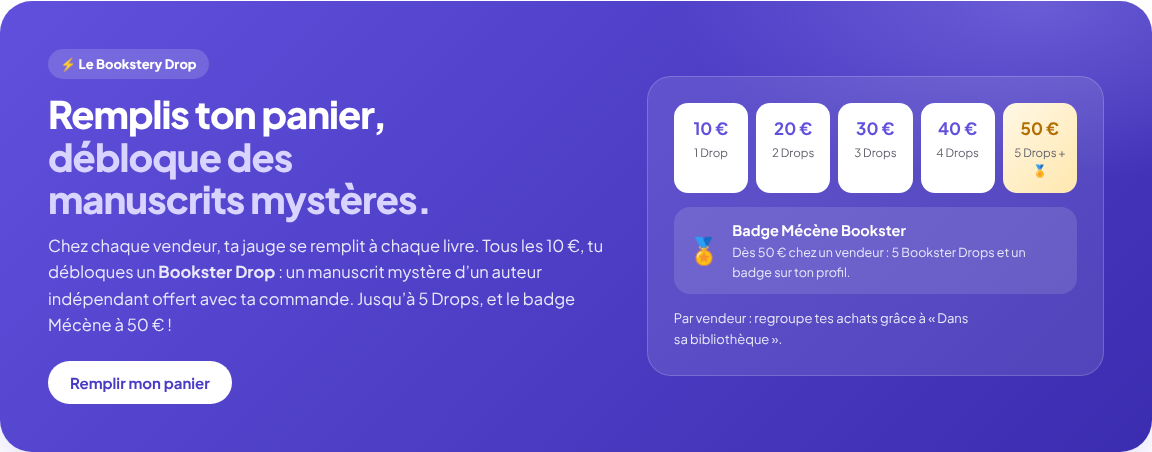
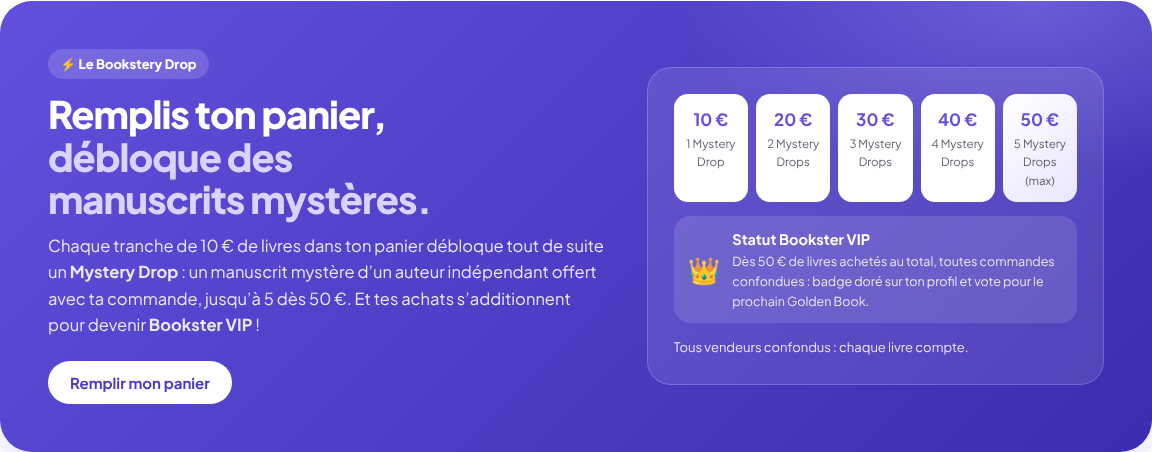
Jauge : Mystery Drops de 10 à 50 € (1 à 5), maximum 5 par commande
Claude-Session: https://claude.ai/code/session_01EPa3evC84KLMU14gb8iTX3

diff --git a/index.html b/index.html
@@ -974,8 +974,8 @@ footer .legal{grid-column:1/-1;border-top:1px solid var(--line);padding-top:18px
 .dv-steps li.mec{background:linear-gradient(135deg,#FFF8E6,#FFE7AE)}.dv-steps li.mec b{color:#B26E00}
 .dv-badge{display:flex;gap:12px;align-items:center;margin-top:14px;background:rgba(255,255,255,.12);border-radius:16px;padding:12px 14px}
 .dv-badge>span{font-size:26px}.dv-badge b{display:block;font-size:14.5px}.dv-badge small{display:block;font-size:12.5px;opacity:.85}
-@media(max-width:560px){.dv-steps{grid-template-columns:repeat(3,1fr)}.dv-steps li.mec{grid-column:span 2}.dg-m small em{display:none}.dg-m{width:44px}.dg-ms{height:34px}}
-/* ---------- Bookster Drops (commande) et statut Bookster VIP (fidélité) ---------- */
+@media(max-width:560px){.dv-steps{grid-template-columns:repeat(3,1fr)}.dv-steps li.mec{grid-column:span 2}.dg-m small em{font-size:9.5px}.dg-m{width:52px}}
+/* ---------- Mystery Drops (commande) et statut Bookster VIP (fidélité) ---------- */
 .drop-box{border:1.5px solid var(--maj-l);background:linear-gradient(180deg,#fff,var(--maj-xl));border-radius:18px;padding:14px 14px 12px;display:flex;flex-direction:column;gap:10px}
 .vip-box{border-radius:18px;padding:14px 16px;background:#fff;border:1.5px solid var(--maj);box-shadow:0 10px 24px -14px rgba(96,80,220,.45)}
 .vip-t{margin:0 0 4px!important;font-size:14px;font-weight:800;color:var(--ink)}.vip-t b{color:var(--maj-d)}
@@ -996,6 +996,9 @@ footer .legal{grid-column:1/-1;border-top:1px solid var(--line);padding-top:18px
 .vip-pill{display:inline-block;vertical-align:middle;font-size:12px;font-weight:800;letter-spacing:.01em;color:#7A4E00;background:linear-gradient(135deg,#FFE7AE,#F5C451);border-radius:999px;padding:4px 10px;margin-left:6px}
 #aVip{margin:4px 0 16px}
 #cmdVip{margin:14px 0 0}
+.dg-m small em{white-space:normal;line-height:1.15}
+.drop-max{background:#E8F6EE;color:#1C5C3B;border-radius:14px;padding:10px 14px;font-size:13.5px;font-weight:700}
+.dv-steps li.max{background:linear-gradient(135deg,#fff,#E9E5FF)}
 @media(prefers-reduced-motion:reduce){*{transition-duration:.01ms!important;animation:none!important;scroll-behavior:auto!important}}
 </style>
 </head>
@@ -1110,16 +1113,16 @@ footer .legal{grid-column:1/-1;border-top:1px solid var(--line);padding-top:18px
         <div class="drop-txt">
           <span class="drop-k">⚡ Le Bookstery Drop</span>
           <h2 id="dropT">Remplis ton panier, <span>débloque des manuscrits mystères.</span></h2>
-          <p>Chaque tranche de 10&nbsp;€ de livres dans ton panier débloque tout de suite un <b>Bookster Drop</b>&nbsp;: un manuscrit mystère d’un auteur indépendant offert avec ta commande. Et tes achats s’additionnent pour devenir <b>Bookster VIP</b>&nbsp;!</p>
+          <p>Chaque tranche de 10&nbsp;€ de livres dans ton panier débloque tout de suite un <b>Mystery Drop</b>&nbsp;: un manuscrit mystère d’un auteur indépendant offert avec ta commande, jusqu’à 5 dès 50&nbsp;€. Et tes achats s’additionnent pour devenir <b>Bookster VIP</b>&nbsp;!</p>
           <a class="btn" href="#catalogue">Remplir mon panier</a>
         </div>
         <div class="drop-viz" aria-hidden="true">
           <ol class="dv-steps">
-            <li><b>10&nbsp;€</b><span>1 Drop</span></li>
-            <li><b>20&nbsp;€</b><span>2 Drops</span></li>
-            <li><b>30&nbsp;€</b><span>3 Drops</span></li>
-            <li><b>40&nbsp;€</b><span>4 Drops</span></li>
-            <li><b>…</b><span>et ainsi de suite</span></li>
+            <li><b>10&nbsp;€</b><span>1 Mystery Drop</span></li>
+            <li><b>20&nbsp;€</b><span>2 Mystery Drops</span></li>
+            <li><b>30&nbsp;€</b><span>3 Mystery Drops</span></li>
+            <li><b>40&nbsp;€</b><span>4 Mystery Drops</span></li>
+            <li class="max"><b>50&nbsp;€</b><span>5 Mystery Drops (max)</span></li>
           </ol>
           <div class="dv-badge"><span>👑</span><div><b>Statut Bookster VIP</b><small>Dès 50&nbsp;€ de livres achetés au total, toutes commandes confondues&nbsp;: badge doré sur ton profil et vote pour le prochain Golden Book.</small></div></div>
           <p class="dv-note">Tous vendeurs confondus&nbsp;: chaque livre compte.</p>
@@ -1193,7 +1196,7 @@ footer .legal{grid-column:1/-1;border-top:1px solid var(--line);padding-top:18px
             <h3>Ton texte part dans le Bookstery Drop</h3>
             <p>À chaque commande, des manuscrits mystères se glissent dans les Bookster Bags. Le tien en fait partie&nbsp;!</p>
             <ul class="fp-list">
-              <li><b>La jauge du Drop</b><span>Chaque tranche de 10&nbsp;€ de livres dans le panier débloque un Bookster Drop&nbsp;: un manuscrit mystère offert.</span></li>
+              <li><b>La jauge du Drop</b><span>Chaque tranche de 10&nbsp;€ de livres dans le panier débloque un Mystery Drop&nbsp;: un manuscrit mystère offert, jusqu’à 5 dès 50&nbsp;€.</span></li>
               <li><b>Le bon lecteur</b><span>Ton texte va à ceux qui aiment déjà ton genre.</span></li>
               <li><b>Un QR code dans le colis</b><span>Il ouvre ton texte dans la liseuse protégée.</span></li>
             </ul>
@@ -1206,8 +1209,8 @@ footer .legal{grid-column:1/-1;border-top:1px solid var(--line);padding-top:18px
                 <div class="mk-item"><i style="background:#2b4c7e"></i>Les Rivières pourpres<em>3,00&nbsp;€</em></div>
                 <div class="mk-item"><i style="background:#1e1e2a"></i>Le Comte de Monte-Cristo<em>4,90&nbsp;€</em></div>
                 <div class="mk-drop-h"><b>⚡ Jauge du Bookstery Drop</b><span>11,40&nbsp;€</span></div>
-                <div class="mk-gauge"><span style="width:38%"></span><i style="left:33.3%">10&nbsp;€</i><i style="left:66.6%">20&nbsp;€</i><i style="left:100%">30&nbsp;€</i></div>
-                <small class="mk-small">1er Bookster Drop débloqué 🎉 · Plus que 8,60&nbsp;€ pour le 2e</small>
+                <div class="mk-gauge"><span style="width:23%"></span><i style="left:20%">10&nbsp;€</i><i style="left:40%">20&nbsp;€</i><i style="left:60%">30&nbsp;€</i><i style="left:80%">40&nbsp;€</i><i style="left:100%">50&nbsp;€</i></div>
+                <small class="mk-small">1er Mystery Drop débloqué 🎉 · Plus que 8,60&nbsp;€ pour le 2e</small>
                 <div class="mk-gift"><span class="mk-gift-i">🎁</span><div><b>Manuscrit mystère · Romans</b><span>«&nbsp;La dernière marée&nbsp;»… c’est ton texte&nbsp;!</span></div></div>
               </div>
             </div>
@@ -2032,13 +2035,13 @@ $("sellForm").addEventListener("submit",async function(e){
 if(sb)sb.auth.onAuthStateChange(function(ev){if(ev==="SIGNED_IN"&&sellReturn){sellReturn=false;setTimeout(function(){closeAll(true);openSell()},300)}});
 
 /* ================= Catalogue & Bookster Bag ================= */
-var DROP_STEP=10;                     /* commande en cours : chaque tranche de 10 € de livres dans le panier = 1 Bookster Drop (manuscrit mystère offert) */
+var DROP_STEP=10,DROP_MAX=5;                     /* commande en cours : chaque tranche de 10 € de livres dans le panier = 1 Mystery Drop (manuscrit mystère offert) */
 var VIP_SEUIL=50;                     /* fidélité : 50 € de livres achetés au total = statut Bookster VIP (jury du Golden Book) */
 var FEE_RATE=0.05,FEE_FIXED=0.70;     /* Protection Acheteur : 5 % + 0,70 € sur le montant des livres */
 var ETAT_TXT={comme_neuf:"Comme neuf",tres_bon:"Très bon état",bon:"Bon état"};
 function r2(x){return Math.round((x+Number.EPSILON)*100)/100}
 function esc(t){return String(t==null?"":t).replace(/[&<>"']/g,function(c){return{"&":"&amp;","<":"&lt;",">":"&gt;",'"':"&quot;","'":"&#39;"}[c]})}
-function booksterbooks(sub){return Math.floor((sub+1e-9)/DROP_STEP)}
+function booksterbooks(sub){return Math.min(DROP_MAX,Math.floor((sub+1e-9)/DROP_STEP))}
 function protection(books){return books>0?r2(books*FEE_RATE+FEE_FIXED):0}
 function ordinal(n){return n===1?"1er":n+"e"}
 var COVERS=["#3E3A8F","#7A2E3B","#1F5C4A","#8A5A1E","#2D4E7A","#5B3A7A","#1E1E2A","#9A3F2A"];
@@ -2206,9 +2209,9 @@ function groups(){
   return order.map(function(v){return by[v]});
 }
 function totals(){
-  var gs=groups(),books=0;gs.forEach(function(g){books=r2(books+g.sub)});var gifts=booksterbooks(books),next=(gifts+1)*DROP_STEP;
+  var gs=groups(),books=0;gs.forEach(function(g){books=r2(books+g.sub)});var gifts=booksterbooks(books),next=gifts<DROP_MAX?(gifts+1)*DROP_STEP:null;
   var fee=protection(books),genres=bag.map(function(b){return b.genre}).filter(function(v,i,a){return v&&a.indexOf(v)===i});
-  return{groups:gs,books:books,fee:fee,total:r2(books+fee),gifts:gifts,next:next,missing:r2(next-books),genres:genres};
+  return{groups:gs,books:books,fee:fee,total:r2(books+fee),gifts:gifts,next:next,missing:next?r2(next-books):0,genres:genres};
 }
 
 function addToBag(id){
@@ -2217,8 +2220,8 @@ function addToBag(id){
   bag.push({id:b.id,titre:b.titre,auteur:b.auteur||"",genre:b.genre||"",etat:b.etat||"",prix:Number(b.prix),vendeur_id:b.vendeur_id,couverture_url:b.couverture_url||""});
   saveBag();renderAll();
   var t=totals(),before=booksterbooks(r2(t.books-Number(b.prix)));
-  if(t.gifts>before)toast("🎉 "+ordinal(t.gifts)+" Bookster Drop débloqué ! Plus que "+EUR.format(t.missing)+" pour le suivant.");
-  else toast("Ajouté ! Plus que "+EUR.format(t.missing)+" dans ton panier pour ton "+ordinal(t.gifts+1)+" Bookster Drop.");
+  if(t.gifts>before)toast("🎉 "+ordinal(t.gifts)+" Mystery Drop débloqué !"+(t.next?" Plus que "+EUR.format(t.missing)+" pour le suivant.":" C’est le maximum : 5 Mystery Drops."));
+  else toast(t.next?"Ajouté ! Plus que "+EUR.format(t.missing)+" dans ton panier pour ton "+ordinal(t.gifts+1)+" Mystery Drop.":"Ajouté ! Tu as déjà le maximum : 5 Mystery Drops.");
 }
 function removeFromBag(id){bag=bag.filter(function(b){return String(b.id)!==String(id)});saveBag();renderAll()}
 document.addEventListener("click",function(e){
@@ -2275,7 +2278,7 @@ function suggestions(missing){
   return BOOKS.filter(function(b){return!inBag[b.id]&&!(current&&b.vendeur_id===current.id)})
     .sort(function(a,b){var sa=sellers[a.vendeur_id]?0:1,sb2=sellers[b.vendeur_id]?0:1;if(sa!==sb2)return sa-sb2;var ma=a.prix>=missing,mb=b.prix>=missing;return ma!==mb?(ma?-1:1):(ma?a.prix-b.prix:b.prix-a.prix)}).slice(0,3);
 }
-function drops(n){return n+" Bookster Drop"+(n>1?"s":"")}
+function drops(n){return n+" Mystery Drop"+(n>1?"s":"")}
 var GAUGE_PREV={};
 /* Jauge générique : valeur en €, échelle 0 → end, jalons [{v,label,em,mark}] */
 function gaugeHtml(key,value,end,marks,aria,cls){
@@ -2296,16 +2299,16 @@ function groupHtml(g){
   return'<section class="sg" aria-label="Livres de '+esc(s.nom)+'"><div class="sg-h"><div><b>'+esc(s.nom)+'</b>'+(s.ville?' <span>· '+esc(s.ville)+'</span>':"")+'</div><span class="sub">'+EUR.format(g.sub)+'</span></div>'+
     '<ul class="items">'+g.items.map(function(b){return'<li class="item">'+coverHtml(b,true)+'<div class="item-t"><b>'+esc(b.titre)+'</b><span>'+esc(ETAT_TXT[b.etat]||b.genre||"")+'</span></div><span class="p">'+EUR.format(b.prix)+'</span><button class="icon rm" type="button" data-rm="'+esc(b.id)+'" aria-label="Retirer '+esc(b.titre)+'"><svg width="14" height="14" viewBox="0 0 24 24" fill="none" stroke="currentColor" stroke-width="2.6" stroke-linecap="round"><path d="M6 6l12 12M18 6 6 18"/></svg></button></li>'}).join("")+'</ul></section>';
 }
-/* 1) Commande en cours : chaque tranche de 10 € dans le panier = 1 Bookster Drop immédiat */
+/* 1) Commande en cours : chaque tranche de 10 € dans le panier = 1 Mystery Drop immédiat */
 function dropBlockHtml(t){
-  var end=Math.max(30,(t.gifts+2)*DROP_STEP),marks=[];
-  for(var v=DROP_STEP;v<=end;v+=DROP_STEP){var n=v/DROP_STEP;marks.push({v:v,label:v+" €",em:n+" Drop"+(n>1?"s":""),mark:n})}
-  var label=t.gifts===0?"Aucun Bookster Drop débloqué pour l’instant":"<b>"+drops(t.gifts)+"</b> débloqué"+(t.gifts>1?"s":"")+" · "+t.gifts+" manuscrit"+(t.gifts>1?"s":"")+" mystère"+(t.gifts>1?"s":"")+" offert"+(t.gifts>1?"s":"");
-  var sg=suggestions(t.missing);
-  return'<section class="drop-box" aria-label="Bookster Drops de ta commande"><p class="prog-l"><span class="drop-k">⚡ Bookster Drops de ta commande</span>'+label+'</p>'+
-    gaugeHtml("cart",t.books,end,marks,"Bookster Drops de ta commande : "+EUR.format(t.books)+", "+drops(t.gifts))+
-    '<div class="nudge"><p>Plus que <b>'+EUR.format(t.missing)+'</b> dans ton panier pour ton '+ordinal(t.gifts+1)+' Bookster Drop !</p>'+
-    (sg.length?'<ul class="sugg">'+sg.map(function(b){return'<li><span>'+esc(b.titre)+'</span><em>'+EUR.format(b.prix)+'</em>'+addBtn(b,true)+'</li>'}).join("")+'</ul>':"")+'</div></section>';
+  var end=DROP_STEP*DROP_MAX,marks=[];
+  for(var v=DROP_STEP;v<=end;v+=DROP_STEP){var n=v/DROP_STEP;marks.push({v:v,label:v+" €",em:n+" Mystery<br>Drop"+(n>1?"s":""),mark:n})}
+  var label=t.gifts===0?"Aucun Mystery Drop débloqué pour l’instant":"<b>"+drops(t.gifts)+"</b> débloqué"+(t.gifts>1?"s":"")+" · "+t.gifts+" manuscrit"+(t.gifts>1?"s":"")+" mystère"+(t.gifts>1?"s":"")+" offert"+(t.gifts>1?"s":"");
+  var sg=t.next?suggestions(t.missing):[];
+  return'<section class="drop-box" aria-label="Mystery Drops de ta commande"><p class="prog-l"><span class="drop-k">⚡ Mystery Drops de ta commande</span>'+label+'</p>'+
+    gaugeHtml("cart",t.books,end,marks,"Mystery Drops de ta commande : "+EUR.format(t.books)+", "+drops(t.gifts))+
+    (t.next?'<div class="nudge"><p>Plus que <b>'+EUR.format(t.missing)+'</b> dans ton panier pour ton '+ordinal(t.gifts+1)+' Mystery Drop !</p>'+
+    (sg.length?'<ul class="sugg">'+sg.map(function(b){return'<li><span>'+esc(b.titre)+'</span><em>'+EUR.format(b.prix)+'</em>'+addBtn(b,true)+'</li>'}).join("")+'</ul>':"")+'</div>':'<div class="drop-max">🎉 Maximum atteint : <b>5 Mystery Drops</b> offerts avec cette commande !</div>')+'</section>';
 }
 /* 2) Fidélité : cumul de tous les achats de livres → statut Bookster VIP à 50 € */
 var vipState={total:0,jury:false};
@@ -2382,7 +2385,7 @@ function renderFiche(){
   var b=findBook(ficheId);if(!b)return;
   var s=sellerOf(b.vendeur_id),l=locOf(b),own=current&&b.vendeur_id===current.id;
   var others=sellerBooks(b.vendeur_id).filter(function(x){return String(x.id)!==String(b.id)});
-    var tt=totals(),prog=(tt.books?"Ton panier : <b>"+EUR.format(tt.books)+"</b>, "+drops(tt.gifts)+". ":"")+"Plus que <b>"+EUR.format(tt.missing)+"</b> pour ton "+ordinal(tt.gifts+1)+" Bookster Drop : chaque tranche de 10 € de livres t’offre un manuscrit mystère.";
+    var tt=totals(),prog=(tt.books?"Ton panier : <b>"+EUR.format(tt.books)+"</b>, "+drops(tt.gifts)+". ":"")+(tt.next?"Plus que <b>"+EUR.format(tt.missing)+"</b> pour ton "+ordinal(tt.gifts+1)+" Mystery Drop : chaque tranche de 10 € de livres t’offre un manuscrit mystère, jusqu’à 5.":"Maximum atteint : 5 Mystery Drops pour cette commande.");
   var lot=sellerBooks(b.vendeur_id).filter(function(x){return!bagHas(x.id)}),lotSum=r2(lot.reduce(function(a,x){return a+x.prix},0));
   $("ficheBody").innerHTML=
     '<div class="f-top">'+coverHtml(b)+'<div class="f-info">'+
@@ -2892,7 +2895,7 @@ var STEPS=[
    done:function(){return bag.length>0},
    auto:function(){var b=filtered().filter(function(x){return!bagHas(x.id)})[0]||BOOKS[0];$("catalogue").scrollIntoView({behavior:"smooth"});addToBag(b.id)}},
   {t:"Débloque ton premier manuscrit mystère",
-   x:"Ouvre ton Bag. Chaque tranche de 10 € de livres dans ton panier t’offre un Bookster Drop : ajoute un livre suggéré par l’encart violet.",
+   x:"Ouvre ton Bag. Chaque tranche de 10 € de livres dans ton panier t’offre un Mystery Drop : ajoute un livre suggéré par l’encart violet.",
    hi:function(){return tourDrawerOpen()?(document.querySelector(".nudge")||document.querySelector(".prog")):$("bagBtn")},
    done:function(){return totals().gifts>0},
    auto:function(){if(!tourDrawerOpen())open($("drawer"));
@@ -3024,7 +3027,7 @@ var AIDE_FAQ=[
  {k:"bookstery c est quoi qu est ce que presentation principe plateforme concept",a:"Bookstery est une plateforme lyonnaise, éthique et circulaire : tu achètes et vends des **livres d’occasion** entre Booksters, et chaque achat peut t’offrir un **manuscrit mystère**, un texte inédit d’un auteur indépendant. Une seconde vie aux livres, et une première aux auteurs !"},
  {k:"acheter commander achat panier bag ajouter commande payer paiement passer",a:"Pour acheter :\n• clique sur « **Ajouter** » sous un livre (ou dans sa fiche) ;\n• ouvre ton **Bookster Bag** en haut ;\n• touche « **Passer au paiement** ».\nIl faut un compte Bookster pour commander."},
  {k:"protection acheteur frais commission 5 0,70 70 centimes cout",a:"La **Protection Acheteur** est de 5 % du montant des livres + 0,70 €. Elle est payée par l’acheteur : le vendeur, lui, ne paie **aucun frais** et reçoit 100 % de son prix."},
- {k:"drop drops bookster bookstery drop manuscrit mystere mysteres cadeau jauge palier offert gratuit 10 20 30 40",a:"Le **Bookstery Drop** glisse des manuscrits mystères (textes inédits d’auteurs indépendants) dans ta commande : **chaque tranche de 10 € de livres dans ton panier** débloque tout de suite un **Bookster Drop**, tous vendeurs confondus.\n• 10 € : 1 Drop · 20 € : 2 · 30 € : 3, et ainsi de suite.\nLe panier t’indique combien il te manque pour le suivant."},
+ {k:"drop drops mystery bookstery drop manuscrit mystere mysteres cadeau jauge palier offert gratuit 10 20 30 40 50 maximum",a:"Le **Bookstery Drop** glisse des manuscrits mystères (textes inédits d’auteurs indépendants) dans ta commande : **chaque tranche de 10 € de livres dans ton panier** débloque tout de suite un **Mystery Drop**, tous vendeurs confondus :\n• 10 € = 1 Mystery Drop · 20 € = 2 · 30 € = 3 · 40 € = 4\n• 50 € = 5 Mystery Drops (le maximum par commande).\nLe panier t’indique combien il te manque pour le suivant."},
  {k:"vip bookster vip statut badge dore jury golden book vote fidelite cumul 50 recompense profil mecene",a:"Le statut **Bookster VIP** 👑 récompense ta fidélité : tous tes achats de livres s’additionnent, commande après commande. Dès **50 € cumulés**, tu passes VIP automatiquement : badge doré sur ton profil, et tu peux **voter pour le prochain Golden Book**. Ta progression s’affiche en bas de ton panier et dans ton espace."},
  {k:"genre cadeau choisir genre secours famille aucun texte",a:"Si ton Bag mélange plusieurs genres, tu choisis celui de ton cadeau avant de payer. S’il n’existe pas encore de texte dans ce genre, on prend un texte de la **même famille** (par exemple Thriller → Polar) ; sinon, tu choisis parmi **tes genres préférés**."},
  {k:"liseuse lire lis lit lecture qr code ouvrir mode nuit manuscrit mystere",a:"Après ta commande, chaque manuscrit mystère a un **QR code** : scanne-le avec ton téléphone pour l’ouvrir dans la liseuse. Tu le retrouves aussi dans « **Mes manuscrits mystères** » (ton espace, ou le raccourci dans le Bag). Fond crème ou **mode nuit**, temps de lecture estimé, et à la fin tu peux noter l’auteur, lui écrire et le suivre."},

diff --git a/legal.html b/legal.html
@@ -209,7 +209,7 @@ footer a{color:var(--muted)}
 
       <h3 id="c-drop">Article 7 — Bookstery Drop et manuscrits mystères</h3>
       <ul>
-        <li>Pour chaque commande, un «&nbsp;Bookster Drop&nbsp;» (un manuscrit mystère) est offert par tranche de 10 € de livres dans le panier, tous Vendeurs confondus (hors Protection Acheteur) : 1 dès 10 €, 2 dès 20 €, 3 dès 30 €, et ainsi de suite.</li>
+        <li>Pour chaque commande, un «&nbsp;Mystery Drop&nbsp;» (un manuscrit mystère) est offert par tranche de 10 € de livres dans le panier, tous Vendeurs confondus (hors Protection Acheteur) : 1 dès 10 €, 2 dès 20 €, 3 dès 30 €, 4 dès 40 € et 5 dès 50 €, dans la limite de 5 Mystery Drops par commande.</li>
         <li><b>Statut Bookster VIP.</b> Le montant des livres achetés par un Bookster s’additionne au fil de ses commandes. Dès 50 € cumulés, son compte obtient automatiquement le statut honorifique «&nbsp;Bookster VIP&nbsp;» : badge doré sur son profil et participation au vote du prochain «&nbsp;Golden Book&nbsp;», selon des modalités communiquées aux membres concernés. Ce statut n’a pas de valeur marchande ; une commande annulée ou remboursée est retirée du cumul.</li>
         <li>L’Acheteur choisit le genre de son cadeau lorsque sa commande contient plusieurs genres. À défaut de texte disponible dans ce genre, le manuscrit est choisi dans la même famille de genres, puis parmi les genres préférés de l’Acheteur. Si aucun texte n’est disponible, le manuscrit est attribué dès qu’un texte correspondant est déposé.</li>
         <li>Le manuscrit mystère est un cadeau gratuit, sans valeur marchande : il ne peut être ni échangé, ni remboursé, ni converti en argent. Il reste accessible dans «&nbsp;Mes manuscrits mystères&nbsp;» tant que le compte existe et que l’Auteur n’a pas retiré son texte.</li>

diff --git a/supabase/functions/aide/faq.ts b/supabase/functions/aide/faq.ts
@@ -13,7 +13,7 @@ Bookstery est une plateforme lyonnaise, éthique et circulaire, qui donne une se
 
 # Bookstery Drop et manuscrits mystères
 - Le Bookstery Drop glisse des manuscrits mystères (textes inédits d'auteurs indépendants) dans les Bookster Bags.
-- Commande en cours : chaque tranche de 10 € de livres dans le panier (tous vendeurs confondus) débloque immédiatement un « Bookster Drop » (un manuscrit mystère offert) : 10 € = 1 Drop, 20 € = 2, 30 € = 3, etc. Le panier indique le montant manquant pour le Drop suivant et suggère des livres.
+- Commande en cours : chaque tranche de 10 € de livres dans le panier (tous vendeurs confondus) débloque immédiatement un « Mystery Drop » (un manuscrit mystère offert) : 10 € = 1 Mystery Drop, 20 € = 2, 30 € = 3, 40 € = 4, 50 € = 5 Mystery Drops (maximum par commande). Le panier indique le montant manquant pour le Drop suivant et suggère des livres.
 - Fidélité, statut Bookster VIP : tous les achats de livres s'additionnent au fil des commandes (montant des livres, hors Protection Acheteur). Une barre de progression de 0 à 50 € s'affiche en bas du panier et dans « Mon espace ». Dès 50 € cumulés, le compte passe automatiquement Bookster VIP : badge doré sur le profil et droit de vote pour le prochain Golden Book.
 - Si le Bag mélange plusieurs genres, l'acheteur choisit le genre de son cadeau avant de payer.
 - Genre de secours : s'il n'existe aucun texte dans ce genre, le manuscrit vient de la même famille (Imaginaire : Fantasy, Fantastique, Science-fiction, Horreur ; Polar & Thriller ; Littérature : Romans, Romance, Roman historique, Feel-good, Aventure, Humour, Classiques, Nouvelles, Théâtre, Poésie ; Jeunesse : Jeunesse, Young Adult, Contes & Légendes). Sinon, le Bookster choisit parmi ses genres préférés.

diff --git a/supabase/functions/valider-commande/index.ts b/supabase/functions/valider-commande/index.ts
@@ -1,6 +1,6 @@
 // Bookstery : validation d'une commande et attribution des manuscrits mystères.
 //
-// Recalcule tout côté serveur (prix, Protection Acheteur, Bookster Drops : 1 par tranche de 10 €),
+// Recalcule tout côté serveur (prix, Protection Acheteur, Mystery Drops : 1 par tranche de 10 €),
 // réserve les livres, tire au sort les extraits offerts dans le genre choisi
 // et renvoie les jetons d'accès à la liseuse (pour les QR codes).
 //
@@ -11,9 +11,10 @@
 
 import { createClient } from "npm:@supabase/supabase-js@2.45.4";
 
-const DROP_STEP = 10; // commande en cours : chaque tranche de 10 € de livres = 1 Bookster Drop (manuscrit mystère offert)
+const DROP_STEP = 10; // commande en cours : chaque tranche de 10 € de livres = 1 Mystery Drop (manuscrit mystère offert)
 const r2 = (x: number) => Math.round((x + Number.EPSILON) * 100) / 100;
-const booksterbooks = (livres: number) => Math.floor((livres + 1e-9) / DROP_STEP);
+const DROP_MAX = 5;   // 50 € = 5 Mystery Drops, le maximum par commande
+const booksterbooks = (livres: number) => Math.min(DROP_MAX, Math.floor((livres + 1e-9) / DROP_STEP));
 const protection = (livres: number) => (livres > 0 ? r2(livres * 0.05 + 0.7) : 0);
 
 // Familles de genres (même liste que dans index.html) : si aucun texte n'existe

diff --git a/README.md b/README.md
@@ -45,7 +45,7 @@ Bouton « Vendre un livre » (en-tête) :
 
 - Catalogue « Les derniers livres en vente » : annonces Supabase (exemples lyonnais en mode démo), filtrées par la recherche et les genres.
 - Protection Acheteur ajoutée automatiquement : 5 % du montant des livres + 0,70 €.
-- **Bookster Drops (commande en cours)** : chaque tranche de 10 € de livres dans le panier, tous vendeurs confondus, débloque un Drop (manuscrit mystère offert). Jauge animée en haut du panier, qui fête chaque Drop et indique le montant manquant avec des suggestions.
+- **Mystery Drops (commande en cours)** : chaque tranche de 10 € de livres dans le panier, tous vendeurs confondus, débloque un Mystery Drop (manuscrit mystère offert) : 10 € = 1 … 50 € = 5, maximum 5 par commande. Jauge animée en haut du panier, qui fête chaque Drop et indique le montant manquant avec des suggestions.
 - **Statut Bookster VIP (fidélité)** : cumul `total_spent_books` des livres achetés sur toutes les commandes ; barre bleu Majorelle de 0 à 50 € en bas du panier et dans « Mon espace » ; à 50 €, `is_vip_jury = true` et badge doré (vote du prochain Golden Book). Côté Supabase : `supabase/vip.sql`.
   Sous 10 € : « Plus que X € chez ce vendeur pour débloquer ton 1er manuscrit mystère ! » et des suggestions du même vendeur.
 - Si le Bag mélange plusieurs genres, l'acheteur choisit le genre de son cadeau mystère avant de payer.
